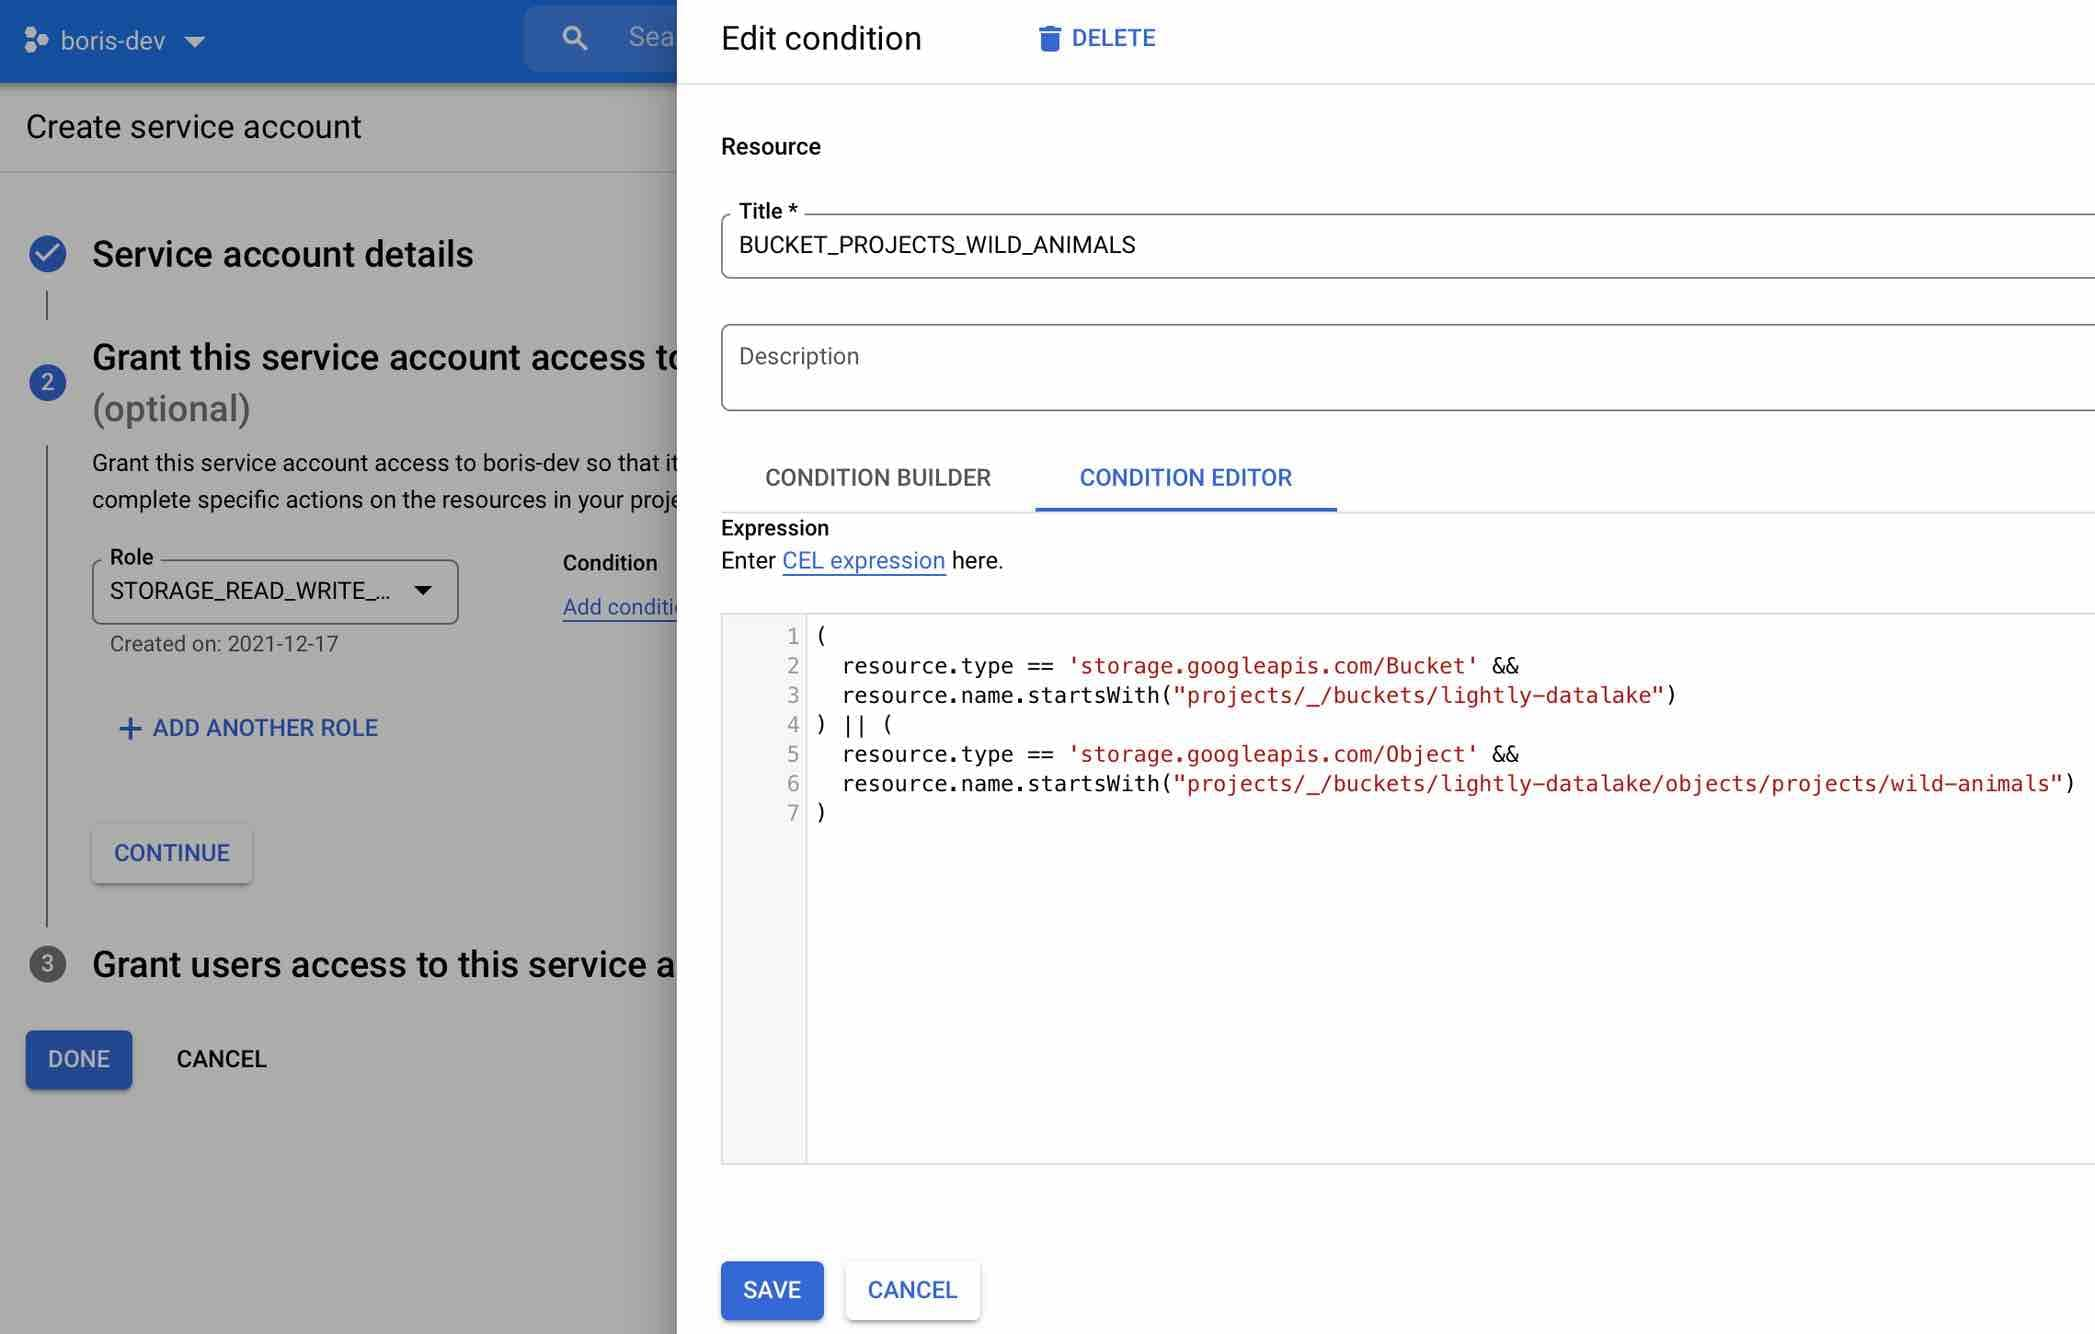
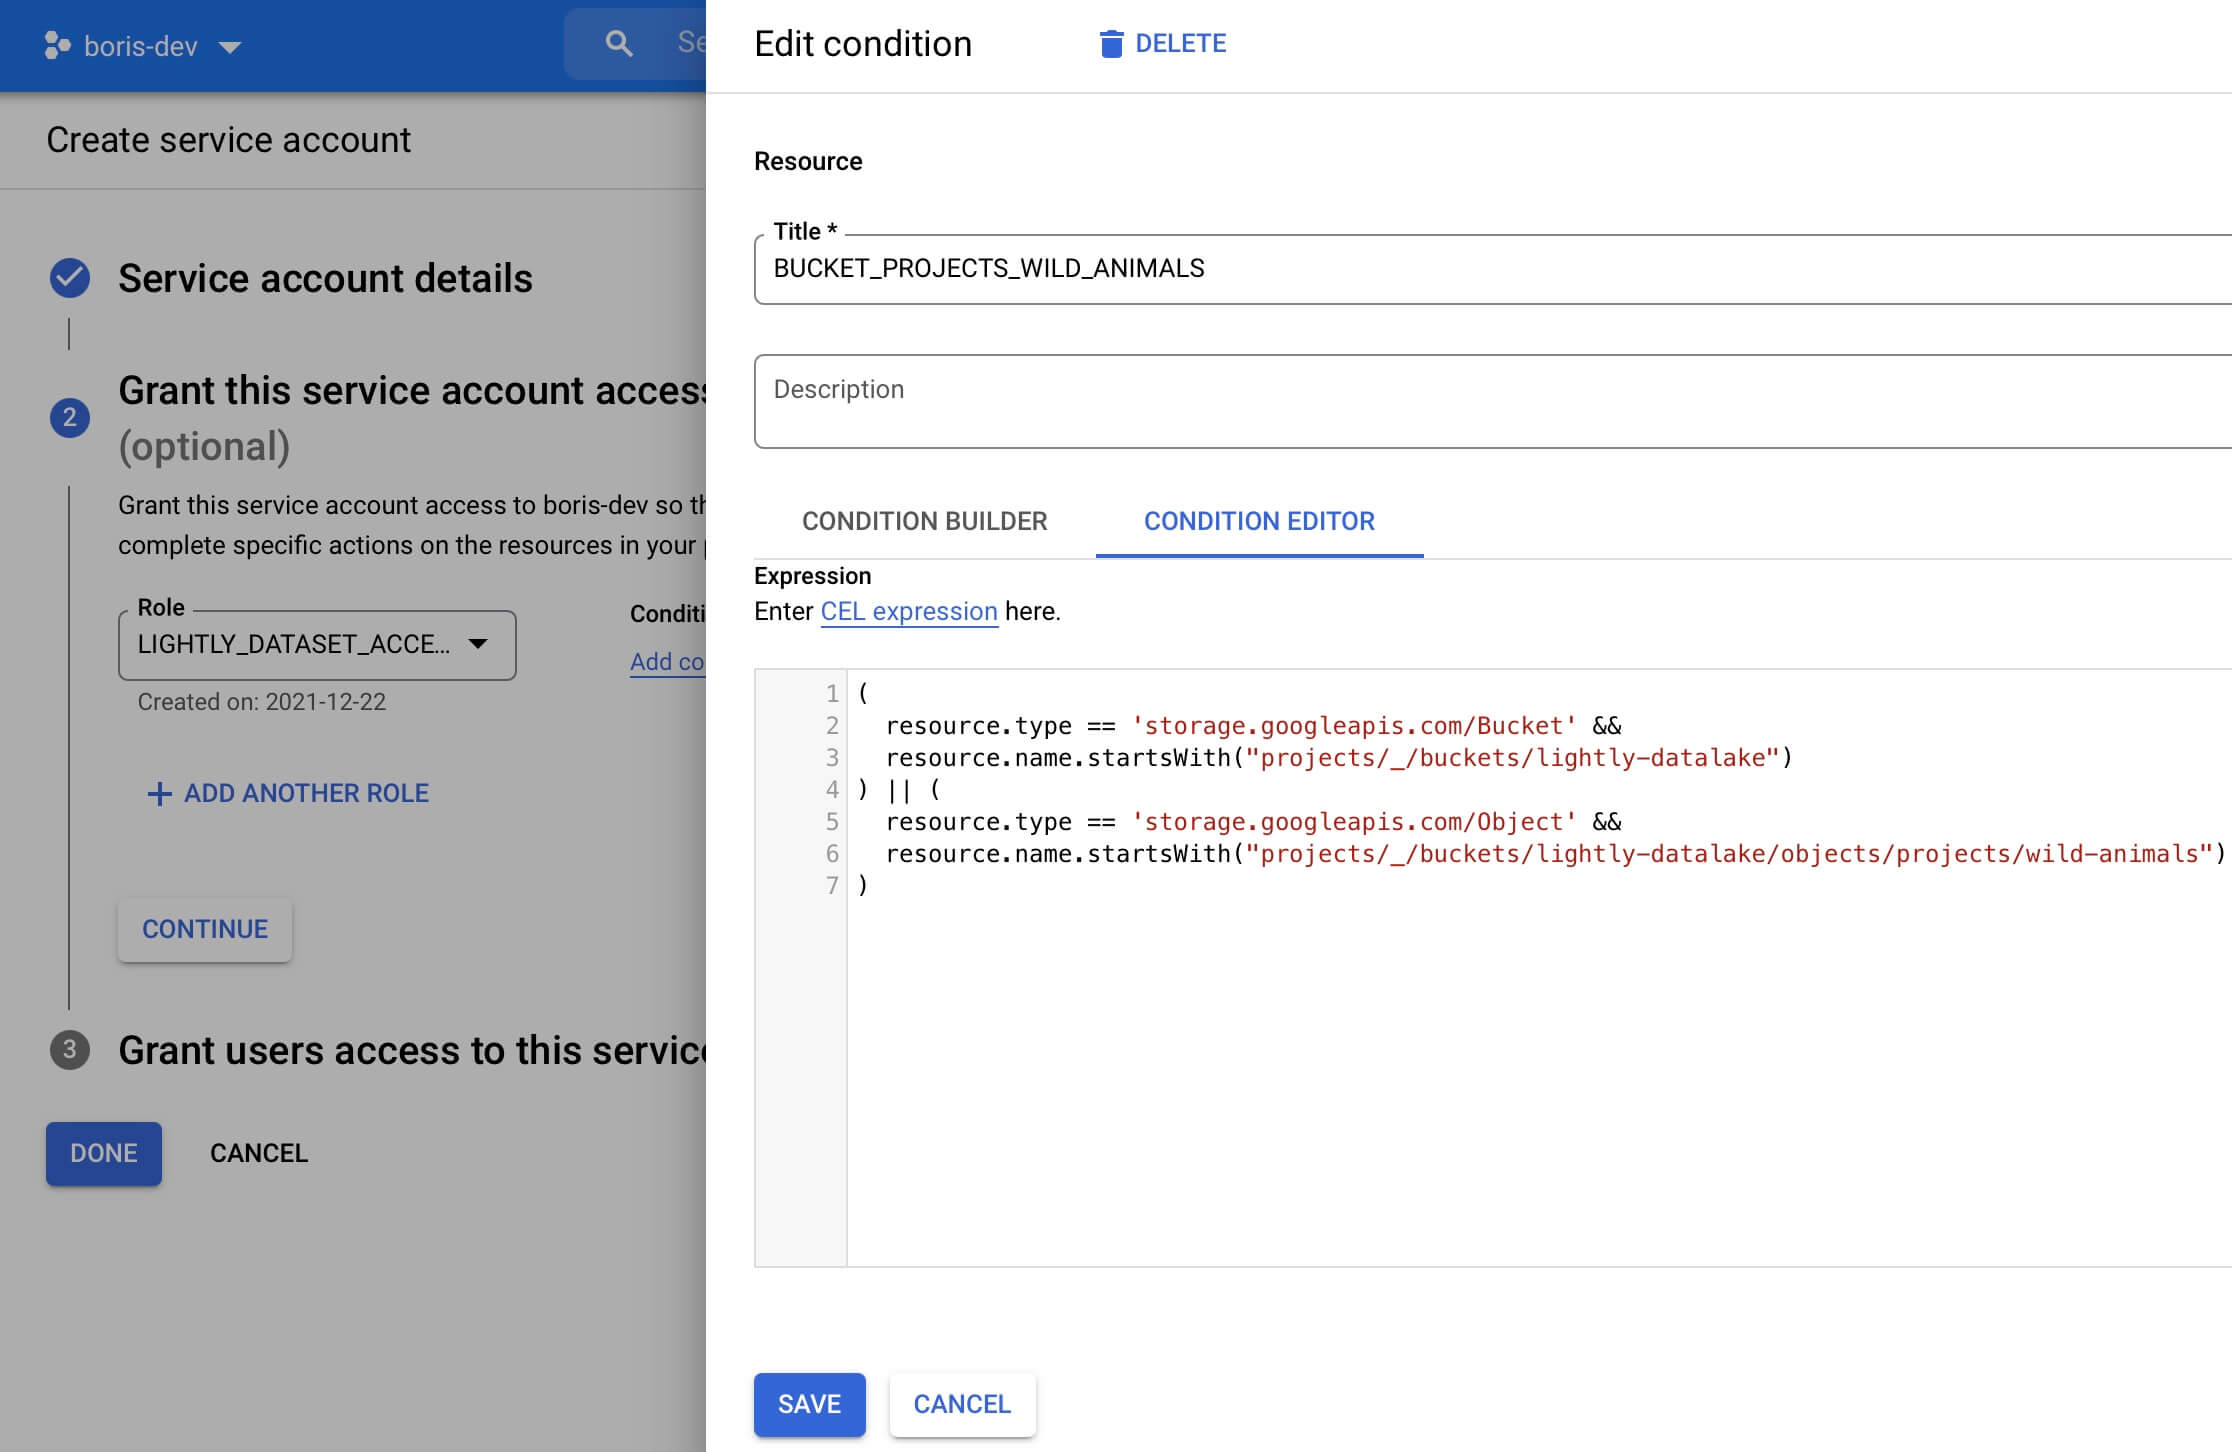
adressed review comments, reworked 3 different thumbnail options

diff --git a/docs/source/getting_started/dataset_creation/dataset_creation_gcloud_bucket.rst b/docs/source/getting_started/dataset_creation/dataset_creation_gcloud_bucket.rst
@@ -9,15 +9,34 @@ In this guide, we will show you how to setup your Google Cloud Storage,
 configure your dataset to use said bucket, and only upload metadata to Lightly
 while keeping your data private.
 
+One decision you need to make first is whether you want to use thumbnails.
+Using thumbnails makes the Lightly Platform more responsive, as not always
+the full images will be loaded.
+However, the thumbnails will be stored in you bucket and thus need storage.
+You have three options:
+
+A) You want to use thumbnails, but don't have them yet. Then you need to give
+Lightly write access to your bucket to create the thumbnails there for you.
+The write access can be configured not to allow overwriting and
+deleting, thus existing data cannot get lost.
+
+B) You already have thumbnails in your bucket with a consistent name scheme, e.g.
+an image called `img.jpg` has a corresponding thumbnail called `img_thumb.jpg`.
+In this case, a read access to your bucket is sufficient.
+
+C) You don't want to use thumbnails. Then a read access to your bucket
+is sufficient. The Lightly Platform will load the full image
+even when requesting the thumbnail.
+
+Depending on this decision, the following steps will differ slightly.
+
 
 Setting up Google Cloud Storage
 ^^^^^^^^^^^^^^^^^^^^^^^^^^^^^^^
 Lightly needs to be able to create so-called
 `presigned URLs/read URLs <https://cloud.google.com/storage/docs/access-control/signed-urls>`_
 for displaying your data in your browser.
-Thus it needs at minimum to be able to read and list permissions on your bucket.
-If you want Lightly to create optimal thumbnails for you
-while uploading the metadata of your images, write permissions are also needed.
+Thus it needs at minimum read and list permissions on your bucket.
 
 Let us assume the bucket is called `lightly-datalake`.
 And let us assume the folder you want to use with Lightly is located at `projects/wild-animals/`
@@ -47,10 +66,12 @@ If it is not, change it to uniform.
 
 4. Navigate to `IAM & Admin -> Roles <https://console.cloud.google.com/iam-admin/roles>`_.
 
-- There create a new role, with the title and ID `STORAGE_READ_WRITE_LIST`.
+- Create a new role, with the same title and ID.
+  E.g. call it `LIGHTLY_DATASET_ACCESS`.
 - Click on `Add Permissions`, search for `storage.objects`
 - Add the permissions `storage.objects.get`, `storage.objects.list`, and `storage.objects.create`.
-  The create permissions are needed so that Lightly can create thumbnails in your bucket.
+  The create permissions are needed if you want Lightly to create thumbnails
+  in your bucket (Option A). Otherwise (Option B and C) you can leave them away.
 - After adding the permissions, create the role.
 
 .. figure:: ./images_gcloud_bucket/screenshot_gcloud_storage_role.jpg
@@ -64,16 +85,10 @@ If it is not, change it to uniform.
   `LIGHTLY_USER_WILD_ANIMALS`.
 - The description can be `service account for the Lightly API to access the wild animals dataset`.
 - Click on `Create and Continue`.
-- Choose the Role you just created, i.e. `STORAGE_READ_WRITE_LIST`.
+- Choose the Role you just created, i.e. `LIGHTLY_DATASET_ACCESS`.
 - Add a condition with the title `BUCKET_PROJECTS_WILD_ANIMALS`
   and insert the condition below in the Condition editor. Remember to change the bucket name
   and path to the folder. However, you must keep the "objects" inbetween.
-  For more information, head to the `IAM conditions
-  <https://cloud.google.com/storage/docs/access-control/iam#conditions>`_.
-  The first part of the condition adds listing rights to the whole bucket,
-  as they can only be handled on the bucket level. The second part adds object-level
-  access rights (i.e. read and create) for all objects in the bucket `lightly-datalake`
-  whose name starts with `projects/wild-animals`.
 
 .. code::
 
@@ -85,10 +100,19 @@ If it is not, change it to uniform.
         resource.name.startsWith("projects/_/buckets/lightly-datalake/objects/projects/wild-animals")
     )
 
+For more information, head to the `IAM conditions
+<https://cloud.google.com/storage/docs/access-control/iam#conditions>`_.
+The first part of the condition adds listing rights to the whole bucket,
+as they can only be handled on the bucket level. The second part adds object-level
+access rights (i.e. read and create) for all objects in the bucket `lightly-datalake`
+whose name starts with `projects/wild-animals`.
+
 .. figure:: images_gcloud_bucket/screenshot_gcloud_create_service.jpg
     :align: center
     :alt: Google Cloud Service Account
     :width: 60%
+
+
 
 - Click on `Done` to create the service account.
 - You can change the roles of the service account later in the
@@ -120,32 +144,35 @@ Create and configure a dataset
 
 .. figure:: images_gcloud_bucket/screenshot_gcloud_create_dataset.jpg
     :align: center
-    :alt: Configure google cloud bucket datasource in Lightly Webapp
+    :alt: Configure google cloud bucket datasource in Lightly Platform
     :width: 60%
 
 
 3. As the resource path, enter the full URI to your resource eg. `gs://lightly-datalake/projects/wild-animals`
 4. Enter the Google Project ID you wrote down in the first step.
 5. Click on `Select Credentials File` to add the key file you downloaded in the previous step.
-6. The thumbnail suffix allows you to configure
+6. The thumbnail suffix depends on the option you chose in the first step
 
-- where your thumbnails are stored when you already have generated thumbnails in your S3 bucket
-- where your thumbnails will be stored when you want Lightly to create thumbnails for you.
-  For this to work, the user policy you created must be granted write permissions.
-- when the thumbnail suffix is not defined/empty,
-  the Lightly Webapp will load the full image even when requesting the thumbnail.
+- Option A: You want Lightly to create the thumbnail for you.
+  Then choose the naming scheme to your liking.
+- Option B: You have already generated thumbnails in your bucket.
+  Then choose the thumbnail suffix such that it reflects you naming scheme.
+- Option C: You don't want to use thumbnails.
+  Then leave the thumbnail suffix undefined/empty.
+
 
 
 6. Press save and ensure that at least the lights for List and Read turn green.
-If you added permissions for writing, this lights should also turn green.
+If you added permissions for writing to use option A, this light should also turn green.
 
 7. Now you should be on the dataset creation page again.
 
 Create the dataset and upload embeddings and metadata.
 ^^^^^^^^^^^^^^^^^^^^^^^^^^^^^^^^^^^^^^^^^^^^^^^^^^^^^^
 
-For creating the dataset and uploading embeddings and metadta to it, you need
-the :ref:`lightly-command-line-tool`. Furthermore, you need to have your data locally.
+For creating the dataset and uploading embeddings and metadata to it, you need
+the :ref:`lightly-command-line-tool`.
+Furthermore, you need to have your data locally on your machine.
 This can be done easiest by using the `gsutil tool <https://cloud.google.com/storage/docs/gsutil>`_
 and its `rsync command <https://cloud.google.com/storage/docs/gsutil/commands/rsync>`_:
 
@@ -154,11 +181,9 @@ and its `rsync command <https://cloud.google.com/storage/docs/gsutil/commands/rs
     gsutil -m rsync -r /local/projects/wild-animals gs://datalake-lightly/projects/wild-animals
 
 
-Use `lightly-magic` and `lightly-upload` with the following considerations:
+Use `lightly-magic` and `lightly-upload` with the following parameters:
 
-- use `input_dir=/local/projects/wild-animals`
-- If you want to use thumbnails for a more responsive Lightly Webapp,
-  add `upload=thumbnails` to the `lightly-magic` command. They will be written
-  to your Google Cloud Bucket if you have given write access to it.
-- If you have already generated thumbnails in your bucket or don't want to use
-  thumbnails, use `upload=metadata` instead.
+- Use `input_dir=/local/projects/wild-animals`
+- If you chose option A to generate thumbnails in your bucket,
+  use `upload=thumbnails`
+- If you chose option B or C, use `upload=metadata` instead.
